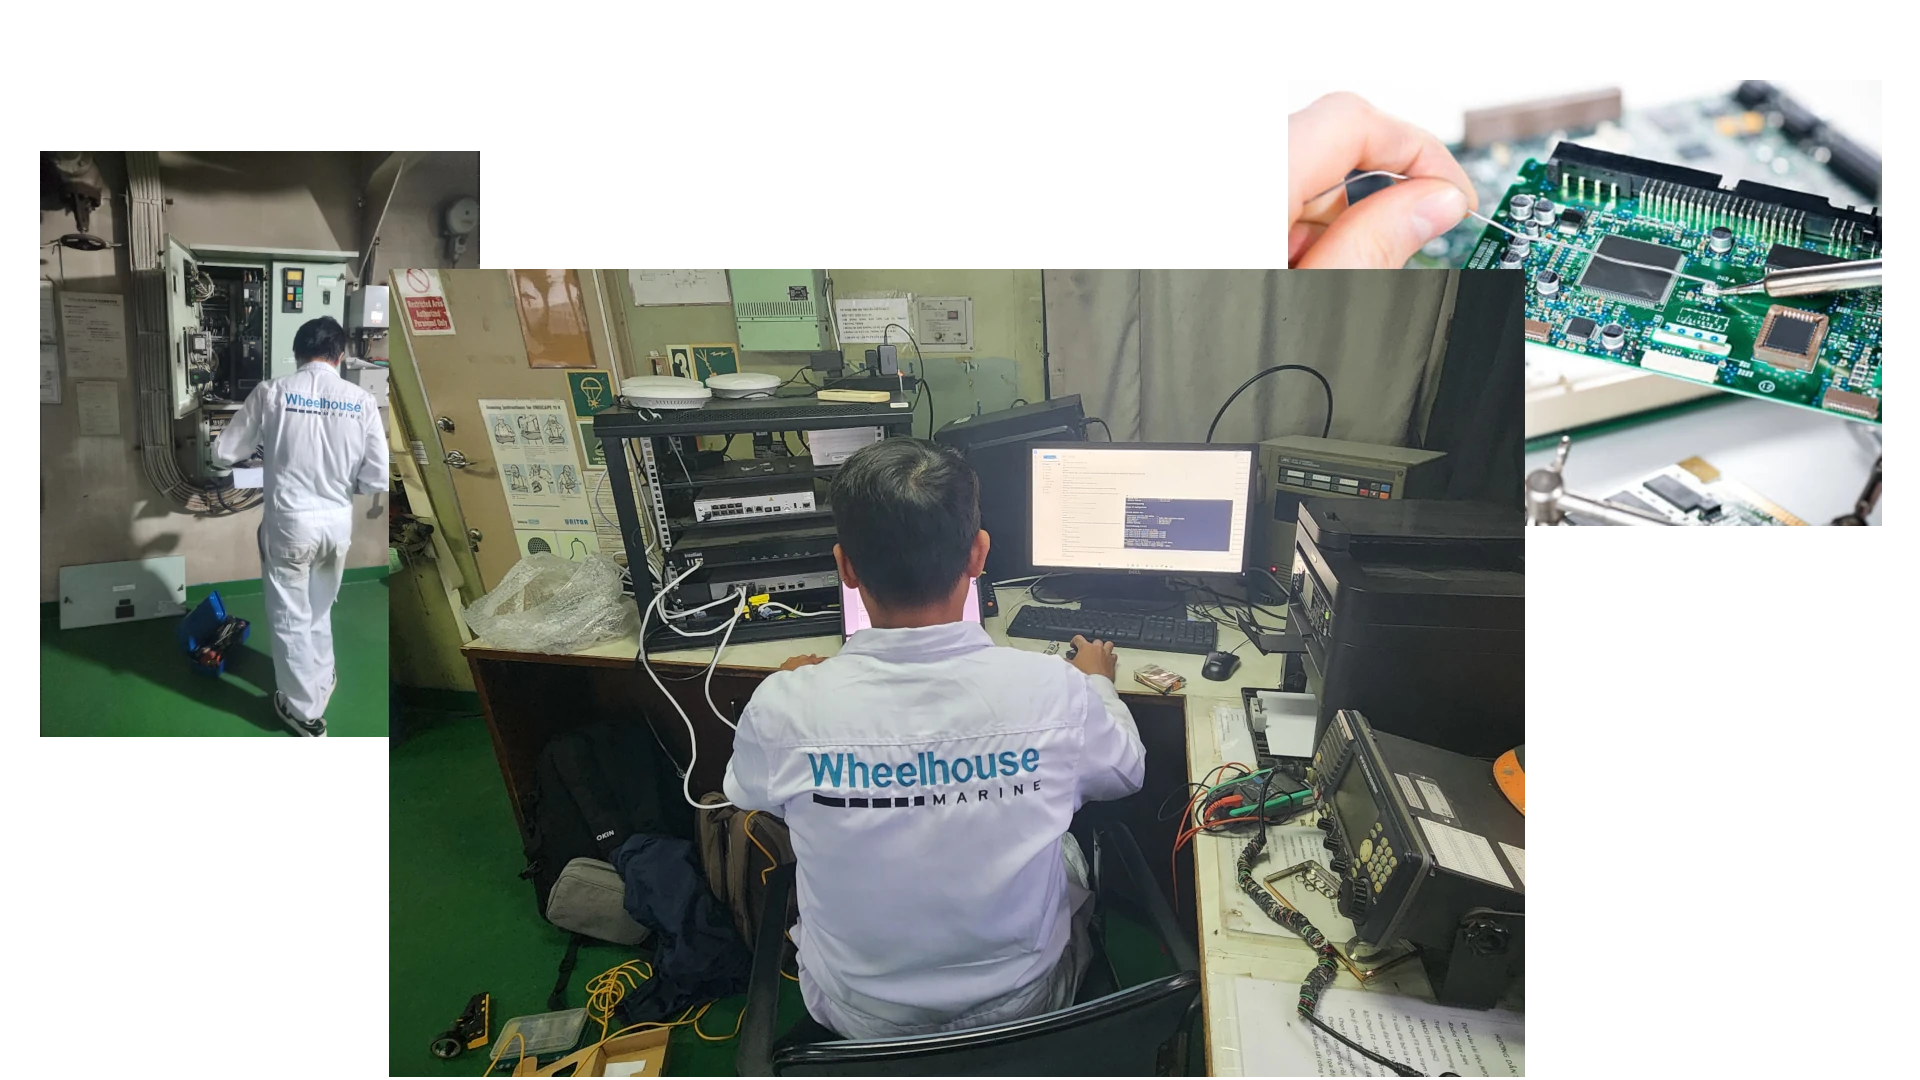
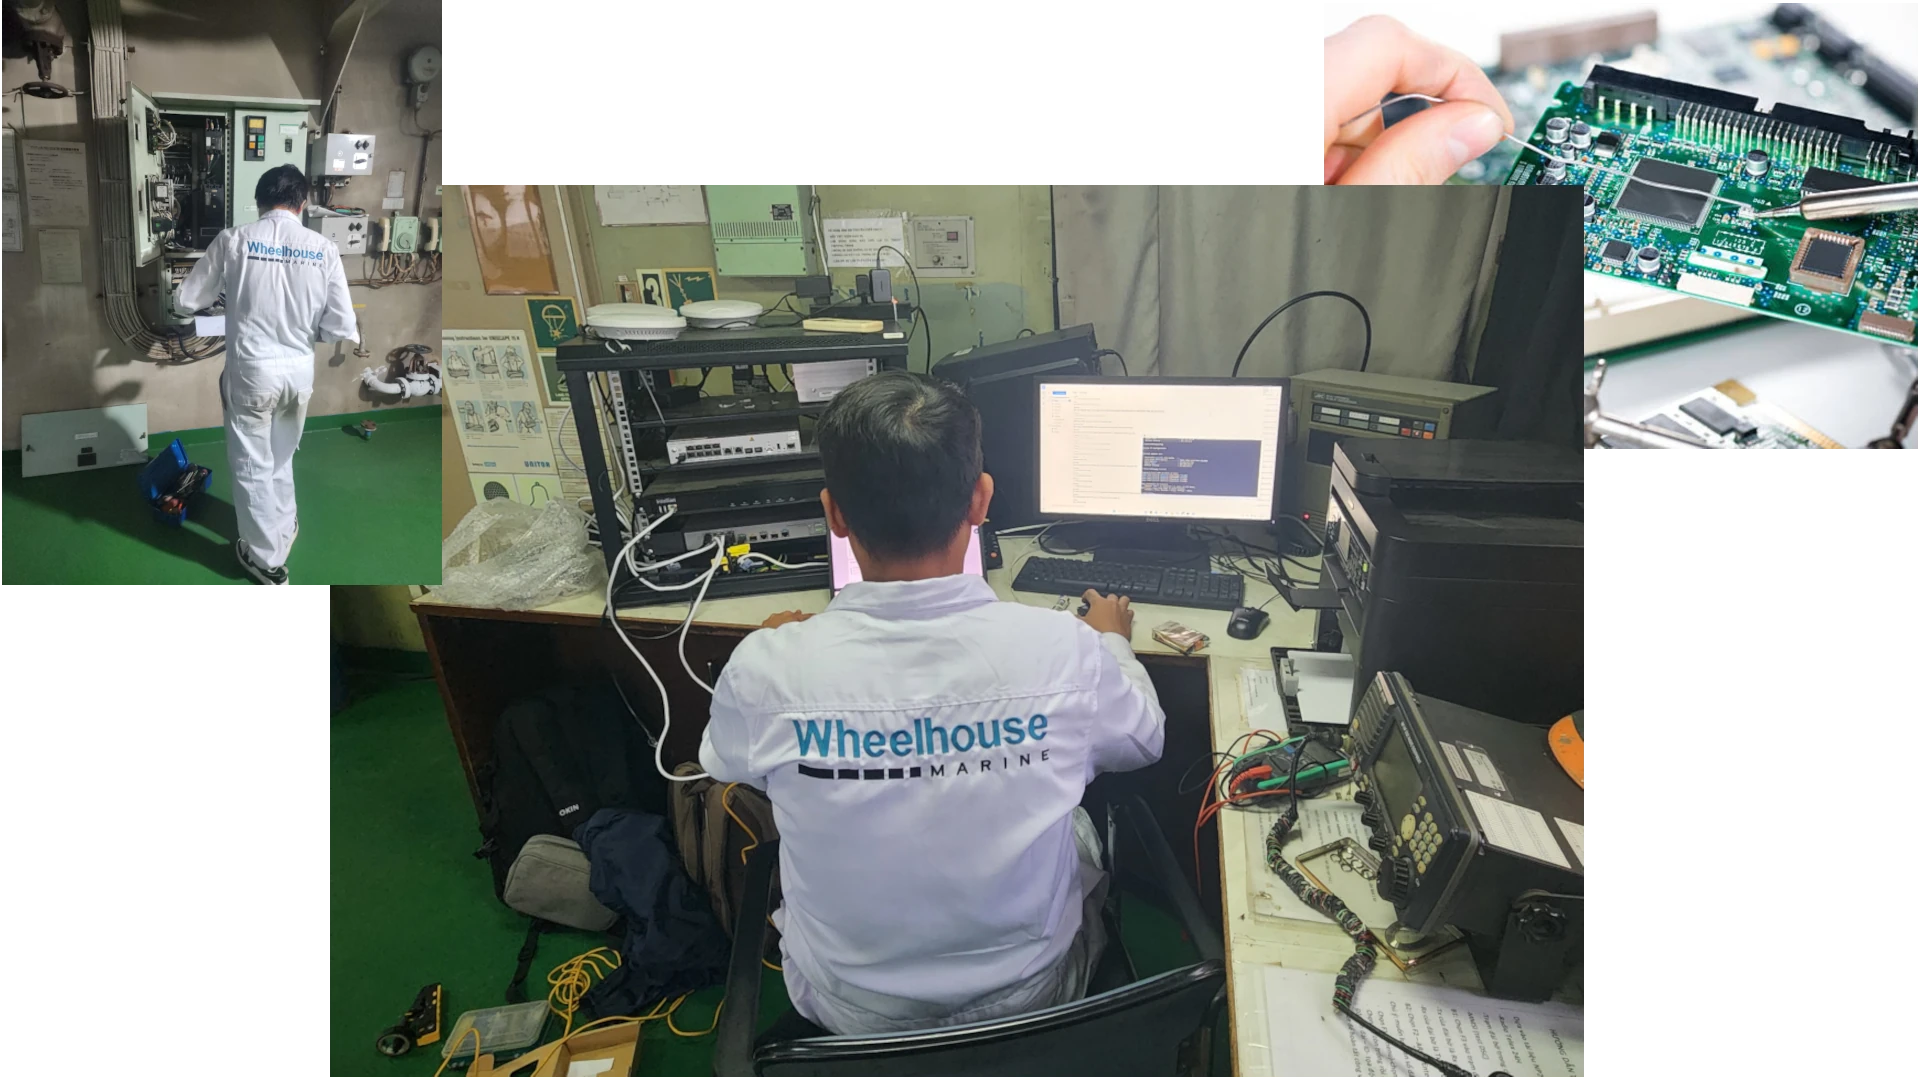
hero cho services

diff --git a/src/components/Hero/HeroPage.tsx b/src/components/Hero/HeroPage.tsx
@@ -1,44 +1,72 @@
-import { type ReactNode } from "react";
-import MediaText from "@/components/MediaText";
+import Image from "next/image";
+import Button from "@/components/Button";
+import { ReactNode } from "react";
+
 interface HeroPageProps {
   title: ReactNode;
   subtitle: ReactNode;
-  cardTitle?: ReactNode;
-  cardDescription?: ReactNode;
-  cardImgSrc?: string;
-  cardImgAlt?: string;
+  images: {
+    back: {
+      src: string;
+      alt: string;
+    };
+    fore?: {
+      src: string;
+      alt: string;
+    };
+  };
+  ctas?: {
+    label: string;
+    href: string;
+  }[];
   className?: string;
 }
-
-export const HeroPage: React.FC<HeroPageProps> = ({
+export default function HeroPage({
   title,
   subtitle,
-  cardTitle,
-  cardDescription,
-  cardImgSrc,
-  cardImgAlt,
+  images,
+  ctas = [],
   className = "",
-}) => {
+}: HeroPageProps) {
   return (
-    <div className={"relative" + className}>
-      <div className="  grid grid-cols-12">
-        <div className="text-4xl lg:text-6xl font-bold col-span-12 lg:col-span-6">
+    <div className={`relative grid grid-cols-12 items-center ${className}`}>
+      <div className="col-span-12 lg:col-span-3 flex flex-col gap-8">
+        <div className="text-3xl lg:text-5xl xl:text-7xl font-semibold leading-tight tracking-tight text-balance w-full lg:w-[150%]">
           {title}
         </div>
-        <div className="col-span-12 lg:col-span-3 lg:col-start-10 text-lg lg:text-xl text-justify whitespace-pre-line  max-w-2xl">
+        <div className="text-xl lg:text-2xl font-medium text-muted-foreground">
           {subtitle}
         </div>
+        {ctas.length > 0 && (
+          <div className="relative flex flex-col sm:flex-row lg:flex-col">
+            {ctas.map((cta, i) => (
+              <Button
+                key={i}
+                href={cta.href}
+                className={
+                  "w-full min-h-20  border-t border-b border-neutral-500/20 focus:ring-white text-black hover:bg-black hover:text-white"
+                }
+              >
+                {cta.label}
+              </Button>
+            ))}
+          </div>
+        )}
       </div>
-      <MediaText
-        className=" mt-8 lg:mt-16"
-        data={{
-          title: cardTitle,
-          description: cardDescription,
-          imgSrc: cardImgSrc,
-          imgAlt: cardImgAlt,
-        }}
-        variant="featured"
-      />
+
+      <div className="relative col-span-12 lg:col-span-7 lg:col-start-6">
+        <div className="relative w-full lg:w-[calc(var(--column)*10)] h-auto ">
+          <Image
+            src={images.back.src}
+            alt={images.back.alt}
+            width={1920}
+            height={1080}
+            sizes="(min-width:1280px) 75vw, 100vw"
+            className="object-cover"
+            priority
+          />
+        </div>
+      </div>
     </div>
   );
-};
+}

diff --git a/src/app/[locale]/services/page.tsx b/src/app/[locale]/services/page.tsx
@@ -3,10 +3,10 @@ import { routing } from "@/i18n/routing";
 import { getTranslations } from "next-intl/server";
 import BackgroundScanline from "@/components/BackgroundScanline";
 import BgGrid from "@/components/BgGrid";
-import Hero from "@/components/Hero";
 import Button from "@/components/Button";
 import Breadcrumbs from "@/components/Breadcrumbs";
 import ScrollShowcase from "@/components/ScrollShowcase";
+import HeroPage from "@/components/Hero/HeroPage";
 
 export async function generateMetadata(props: {
   params: Promise<{ locale: string }>;
@@ -59,10 +59,10 @@ export default async function ServicesPage(props: {
 
   return (
     <>
-      <section className="relative" aria-label="Services hero section">
-        <div className="container-gutter ">
+      <section className="relative " aria-label="Services hero section">
+        <div className="container-gutter">
           <BgGrid className="fixed" />
-          <Hero
+          <HeroPage
             title={
               <h1>
                 {t.rich("hero.title", {
